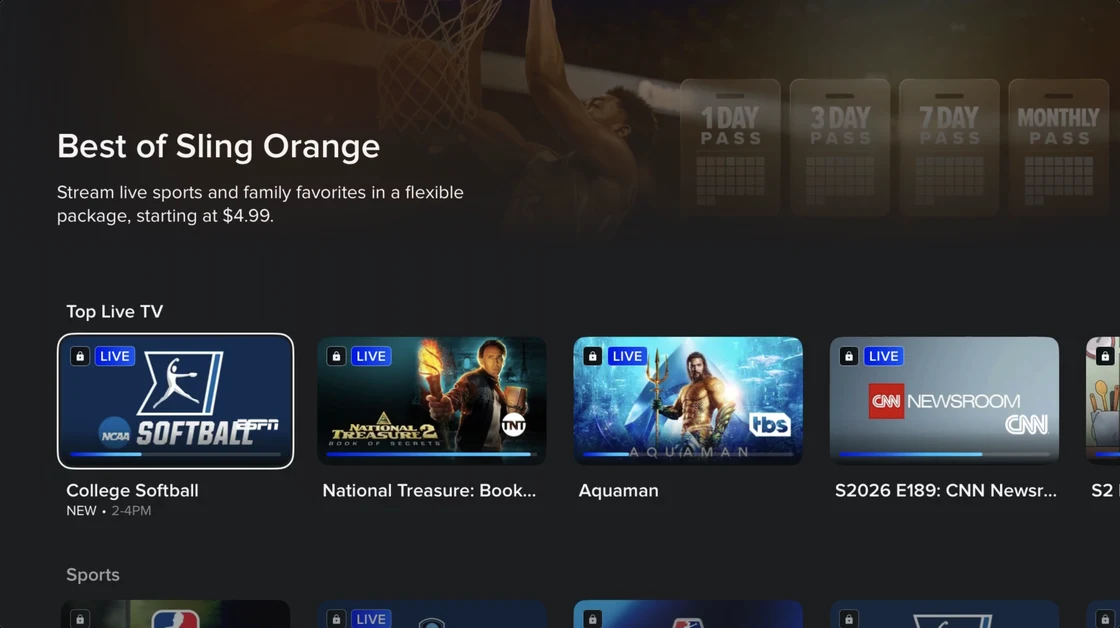
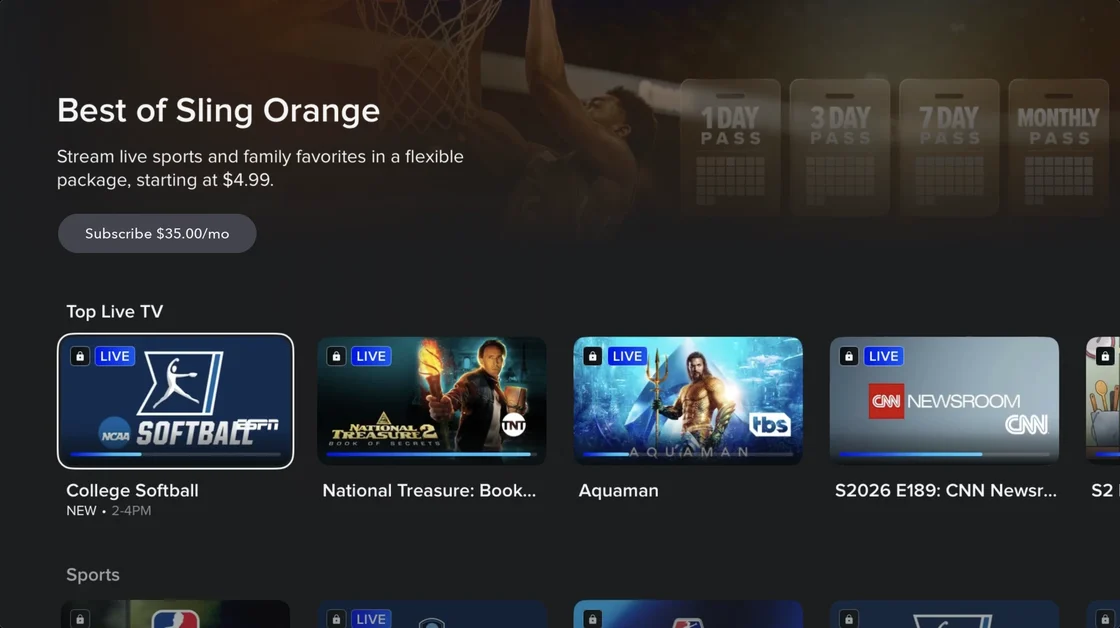
Freestream: Best of Sling Orange screen with Subscribe button in walkthrough and gallery

Changed region(s): [[0.0312, 0.1513, 0.4062, 0.4236]]

diff --git a/projects/freestream/index.html b/projects/freestream/index.html
@@ -559,7 +559,7 @@ b.forEach(function(x,i){x.addEventListener('click',function(){b.forEach(function
 </div>
 <img class="L acct" src="a/tv_account.webp" alt="">
 <video class="L food" src="a/tv_food.mp4" muted playsinline preload="auto"></video>
-<img class="L sign" src="a/tv_signin2.webp" alt="">
+<img class="L sign" src="a/tv_orange2.webp" alt="">
 <div class="pl"><div class="live"><i></i>LIVE</div><div class="ti">Guy’s Grocery Games</div><div class="su">Food Network • 23 mins left</div><div class="ct"><span class="cb"><svg viewBox="0 0 24 24" fill="currentColor"><rect x="4" y="5" width="2.6" height="14"/><path d="M20 5v14L8.5 12z"/></svg></span>Play From Start<span class="rc"><b></b></span></div><div class="tm">37:00 / 60:00</div><div class="bar"><b></b><u></u></div><div class="mn"><span>Recent channels</span><span>More to watch</span><span>Details</span><span>Settings</span></div></div>
 <div class="blk"></div>
 <div class="rpl"><svg width="18" height="18" viewBox="0 0 18 18" fill="none" aria-hidden="true"><path d="M3 9a6 6 0 1 0 2-4.5M3 3v3.5h3.5" stroke="#fff" stroke-width="1.8" stroke-linecap="round" stroke-linejoin="round"/></svg>Click to replay</div>
